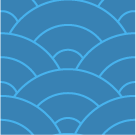
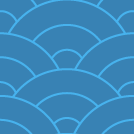
Ocean Quest fixes

diff --git a/newStructure/minigames/oceanQuest/js/scenes/oceanQuest.js b/newStructure/minigames/oceanQuest/js/scenes/oceanQuest.js
@@ -29,7 +29,7 @@ var oceanQuest = function(){
         images: [
             {
 				name:'tutorial_image',
-				file:"images/oceanQuest/gametuto.png"
+				file:"images/oceanQuest/tutorial_image_%input.png"
 			},
             {
 				name:'audioOn',
@@ -110,6 +110,7 @@ var oceanQuest = function(){
     var player
     var monstersGroup
     var radarGroup
+    var oceansGroup
     var click
     var keyState = {up: false, down: false, right: false, left: false}
     var mapPositions = [{spawnX: 90, spawnY: 970, targetX: 250, targetY: 600},
@@ -334,7 +335,9 @@ var oceanQuest = function(){
 
 	function createBackground(){
       
-        sceneGroup.add(game.add.tileSprite(0, 0, 1700, 1300, "atlas.oceanQuest", "tile"))
+        var tile = game.add.tileSprite(0, 0, 1700, 1300, "atlas.oceanQuest", "tile")
+        sceneGroup.add(tile)
+        game.add.tween(tile.tilePosition).to({x:game.world.width},30000,Phaser.Easing.linear,true, 0, -1, true)
         
         var contiGroup = game.add.group()
         sceneGroup.add(contiGroup)
@@ -375,15 +378,17 @@ var oceanQuest = function(){
             if(cursors.up.isDown){
                 player.body.moveUp(PLAYER_SPEED)
                 
+                if(!player.isMoving)
+                
                 if(!keyState.up){
                     keyState.up = true
-                    changeAnim("run")
+                    changeAnim("run", true)
                 }
             }
             else{
                 if(keyState.up){
                     keyState.up = false
-                    changeAnim("idle")
+                    changeAnim("idle", false)
                 }
             }
             
@@ -393,13 +398,13 @@ var oceanQuest = function(){
                 
                 if(!keyState.down){
                     keyState.down = true
-                    changeAnim("run")
+                    changeAnim("run", true)
                 }
             }
             else{
                 if(keyState.down){
                     keyState.down = false
-                    changeAnim("idle")
+                    changeAnim("idle", false)
                 }
             }
 
@@ -409,13 +414,13 @@ var oceanQuest = function(){
                 
                 if(!keyState.left){
                     keyState.left = true
-                    changeAnim("run")
+                    changeAnim("run", true)
                 }
             }
             else{
                 if(keyState.left){
                     keyState.left = false
-                    changeAnim("idle")
+                    changeAnim("idle", false)
                 }
             }
             
@@ -425,13 +430,13 @@ var oceanQuest = function(){
                 
                 if(!keyState.right){
                     keyState.right = true
-                    changeAnim("run")
+                    changeAnim("run", true)
                 }
             }
             else{
                 if(keyState.right){
                     keyState.right = false
-                    changeAnim("idle")
+                    changeAnim("idle", false)
                 }
             }   
 
@@ -448,6 +453,16 @@ var oceanQuest = function(){
                 for(var i = 0; i < monstersGroup.length; i++){
                     if(checkOverlap(player, monstersGroup.children[i]) && monstersGroup.children[i].attacking){
                         catchMonster(monstersGroup.children[i], true)
+                        break
+                    }
+                }
+            }
+            
+            if(player.isMoving || click){
+                for(var i = 0; i < oceansGroup.length; i++){
+                    if(checkOverlap(player, oceansGroup.children[i])){
+                        oceansGroup.text.setText(oceansGroup.children[i].NAME)
+                        break
                     }
                 }
             }
@@ -475,9 +490,10 @@ var oceanQuest = function(){
             player.anim.setAnimationByName(0, "idle", true)
     }
     
-    function changeAnim(animation){
+    function changeAnim(animation, move){
         
         player.anim.setAnimationByName(0, animation, true)
+        player.isMoving = move
     }
     
     function checkOverlap(spriteA, spriteB) {
@@ -564,6 +580,8 @@ var oceanQuest = function(){
         anim.scale.setTo(0.5)
         player.addChild(anim)
         player.anim = anim
+        
+        player.isMoving = false
     }
     
     function createMonsters(){
@@ -585,7 +603,6 @@ var oceanQuest = function(){
             box.beginFill(0x00aaff)
             box.drawRect(-150, -190, 300, 200)
             box.alpha = 0
-            box.inputEnabled = true
             anim.addChild(box)
             anim.box = box
 
@@ -605,7 +622,11 @@ var oceanQuest = function(){
         radarGroup = game.add.group()
         sceneGroup.add(radarGroup)
         
-        var screen = radarGroup.create(0, game.world.height, "atlas.oceanQuest", "picScreen")
+        var back = radarGroup.create(-30, game.world.height, "atlas.oceanQuest", "back")
+        back.anchor.setTo(0, 1)
+        back.width = game.world.width + 60
+        
+        var screen = radarGroup.create(50, game.world.height, "atlas.oceanQuest", "picScreen")
         screen.anchor.setTo(0,1)
         
         var tomiko = radarGroup.create(screen.centerX, screen.centerY, "atlas.oceanQuest", "idle")
@@ -613,7 +634,7 @@ var oceanQuest = function(){
         tomiko.scale.setTo(0.9)
         radarGroup.tomiko = tomiko
         
-        var map = radarGroup.create(game.world.width, game.world.height, "atlas.oceanQuest", "map")
+        var map = radarGroup.create(game.world.width - 50, game.world.height, "atlas.oceanQuest", "map")
         map.anchor.setTo(1)
         radarGroup.map = map
         
@@ -641,6 +662,50 @@ var oceanQuest = function(){
         
         game.input.onDown.add(clickDown,this)
 		game.input.onUp.add(clickUp,this)
+    }
+    
+    function createOceans(){
+        
+        var board = sceneGroup.create(game.world.centerX, 120, "atlas.oceanQuest", "board")
+        board.anchor.setTo(0.5)
+        board.fixedToCamera = true
+        
+        var fontStyle = {font: "40px VAGRounded", fontWeight: "bold", fill: "#ffffff"}
+        
+        var text = new Phaser.Text(sceneGroup.game, 0, 5, "", fontStyle)
+        text.anchor.setTo(0.5)
+        board.addChild(text)
+        
+        oceansGroup = game.add.group()
+        oceansGroup.text = text
+        sceneGroup.add(oceansGroup)
+        
+        if(localization.getLanguage() === 'ES'){
+            var names = ["Océano Pacífico", "Océano Atlántico", "Océano Ártico", "Océano Antártico", "Océano Índico", "Océano Pacífico"]
+        }
+        else{
+            var names = ["Pacific Ocean", "Atlantic Ocean", "Arctic Ocean", "Southern Ocean", "Indian Ocean", "Pacific Ocean"]
+        }
+        
+        oceansGroup.text.setText(names[0])
+        
+        var squarePoints = [[0, 250, 300, 850],
+                            [400, 260, 500, 550],
+                            [0, 0, 1700, 200],
+                            [360, 850, 1000, 200],
+                            [950, 550, 400, 250],
+                            [1400, 220, 1700, 850]]
+        
+        for(var i = 0; i < 6; i++){
+            
+            var box = game.add.graphics(squarePoints[i][0], squarePoints[i][1])
+            box.beginFill(0xaa0000)
+            box.drawRect(0, 0, squarePoints[i][2], squarePoints[i][3])
+            box.alpha = 0
+            box.NAME = names[i]
+            box.endFill()
+            oceansGroup.add(box)
+        }
     }
     
     function catchMonster(monst, ans){
@@ -781,6 +846,7 @@ var oceanQuest = function(){
 			createHearts()
             createSoundBtn()
             createRadar()
+            createOceans()
             initCoin()
             createParticles()
 			
